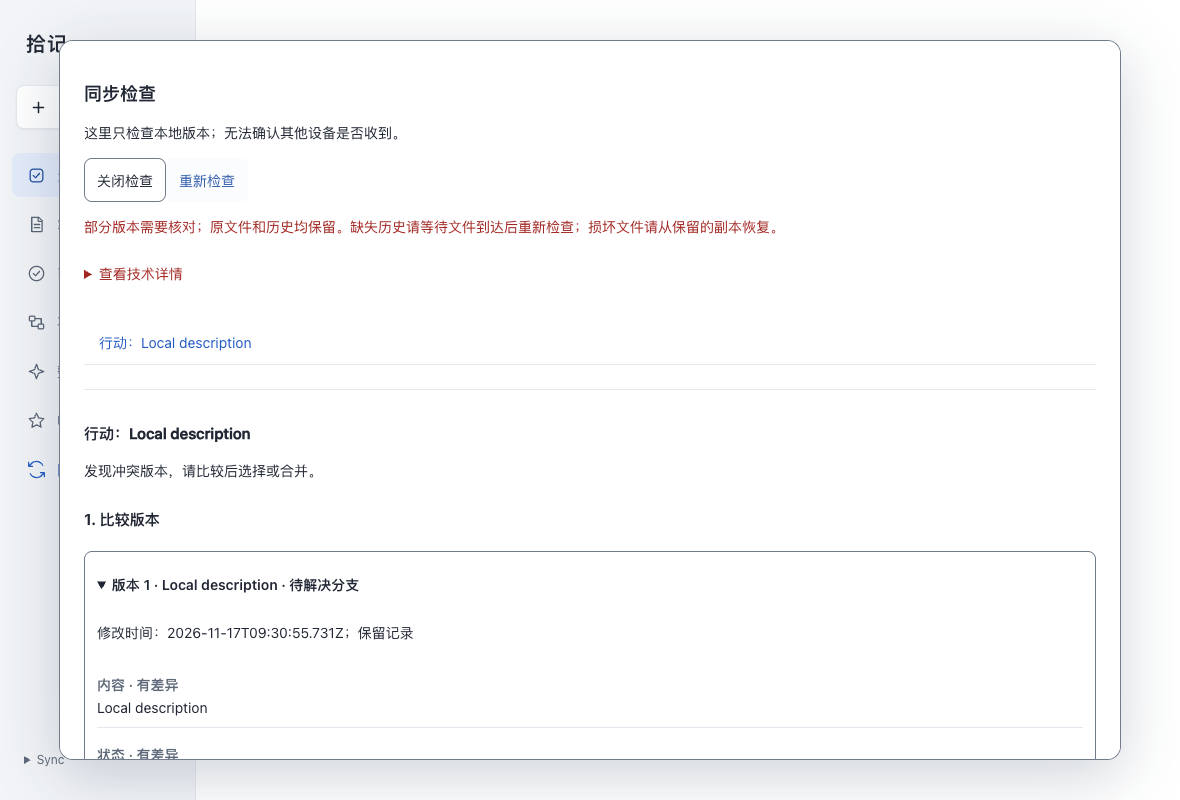
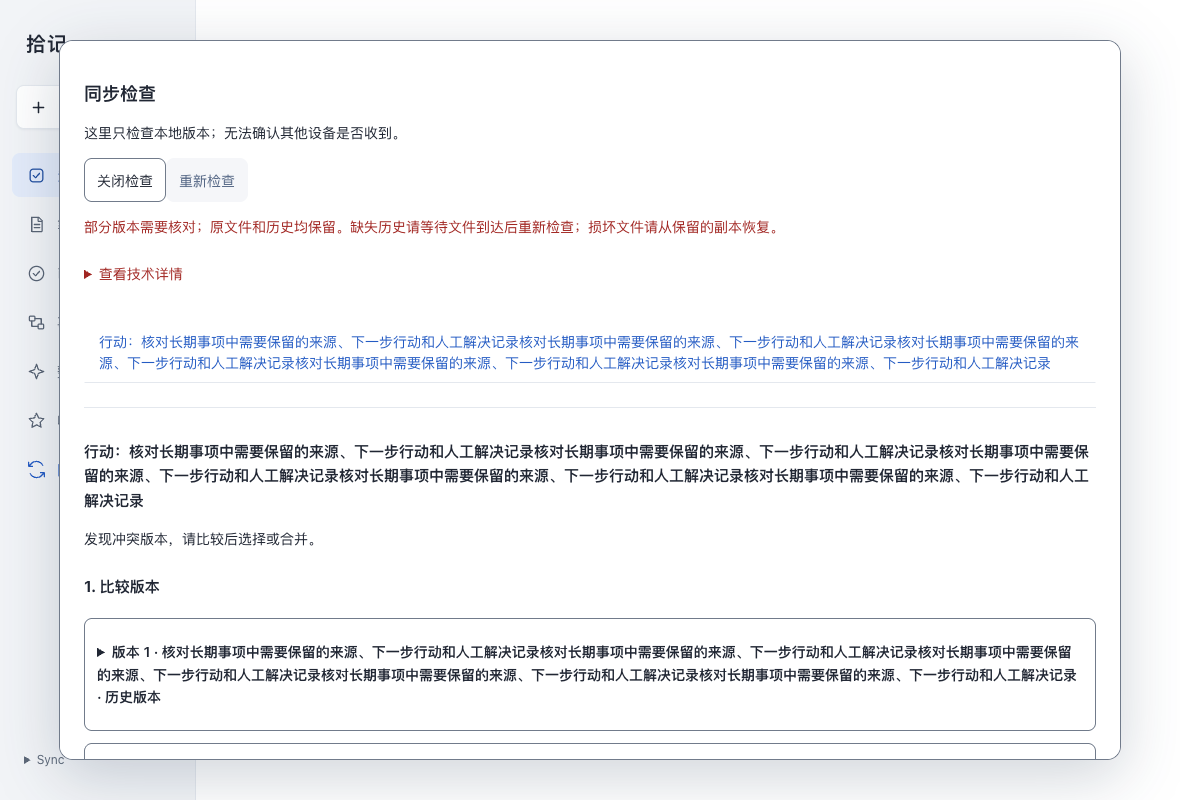
Record final conflict review validation and independent reports

diff --git a/docs/validation/issue36/README.md b/docs/validation/issue36/README.md
@@ -28,6 +28,7 @@ Final source checks and artifacts are tied to the exact head by the delivery rec
 - Browser keyboard checks cover Escape protection, Tab containment with inert sibling records, Shift+Tab containment, initial focus, focus restoration, close/reopen, record navigation and underlying task draft/scroll retention. At 393px, visible button heights are at least 44px and panel/page widths do not overflow. Long Chinese record names wrap. Shared catalogue checks verify semantic contrast: body 14.62:1, secondary 5.65:1, primary 6.25:1, boundary 4.28:1, focus 5.97:1.
 - Actual Cocoa/WKWebView runs use `dev.localnotes.validation.issue36`, synthetic notes and separate synchronized/private directories under `build/native-issue36-*`. Unchanged shipped web resources run in a test-only native command/snapshot host. DOM input/click events go through `evaluateJavaScript`, rather than physical keyboard/pointer input. Before/after native snapshots and reports are retained here.
 - Native journey: open review over a dirty action draft, select and edit a branch, block only the isolated fixture directory to force a real filesystem save failure, verify retained resolution, restore directory and retry, close to the unchanged task draft, verify four retained history entries and two resolution parents, restart the process and read back the saved resolution. Source note is unchanged. Only the probe's own process is terminated.
+- Baseline Chromium replay against the starting SHA fails the new initial-focus assertion when opening review over a dirty task (`before.txt`); its screenshots were captured before that failure. The final-source replay passes.
 - Baseline native report records `focusRestored: false`; after report records `true`. Shared dialog synchronous opener capture and the focusable sync opener fix the observed failure.
 
 ## Limits and risk

diff --git a/docs/validation/issue36/reviews.md b/docs/validation/issue36/reviews.md
@@ -1,0 +1,13 @@
+# Independent review reports
+
+Review command: `git diff e8a869b42f396c2b9f3cf7e768aaa752ae4c448f...HEAD`.
+
+## Standards
+
+Independent reviewer confirmed source/evidence head `5092051366c03747242d1783e9236bb51f20e8a0` against the starting/base SHA: no hard violations or new correctness findings. Application copy is Simplified Chinese, project prose/comments are English, shared primitives/tokens are reused, and scope/deferred checks are preserved. Minor judgement suggestion: short native probe aliases could be more descriptive. Retained with documented rationale because the isolated probe follows adjacent existing test conventions; this is nonblocking.
+
+## Spec
+
+Independent reviewer confirmed the same source/evidence head against the starting/base SHA: no remaining blocking Spec findings or scope creep. The reported disabled-control traversal concern is resolved by excluding all disabled fields, with an expanded-Advanced blocked-history Tab/Shift+Tab regression. Labeled conflict articles address the optional accessibility context suggestion. Modal stacking and hit testing protect control reachability. Shared primitives, staged resolution, typed comparisons, source histories, partial-save recovery, Chinese copy, content audit and explicitly disclosed native-input limitations fit issue #36.
+
+The final evidence commit adds logs, refreshed snapshots, this report and an additional long-Chinese 393px assertion. Production sources match the reviewed source head and the final native resource hashes. Both independent reviewers are asked to confirm that final evidence-inclusive SHA before publication; their exact-head confirmations are recorded in the PR delivery report.

diff --git a/docs/superpowers/plans/2026-11-17-issue36-sync-review.md b/docs/superpowers/plans/2026-11-17-issue36-sync-review.md
@@ -11,4 +11,4 @@ The approved design contract is docs/design/README.md and its live catalogue, wi
 - [x] Extend tests/sync-ui.mjs for selection, background refresh, failed refresh, invalid data, narrow/long Chinese, focus containment and restoration, partial-write recovery and source history. Keep real Mac storage adapter coverage.
 - [x] Add an isolated issue36 WKWebView probe for actual local save/failure/retry/restart/readback, with screenshots and explicit input-method limitations.
 - [x] Run shared checks, UI regressions and Mac build. Android and standalone Syncthing are deferred by user decision.
-- [ ] Commit, run independent Standards and Spec reviews against the starting SHA; resolve findings and refresh affected checks. Publish one PR; coordinator owns merging.
+- [x] Commit, run independent Standards and Spec reviews against the starting SHA; resolve findings and refresh affected checks. Publish one PR; coordinator owns merging.
